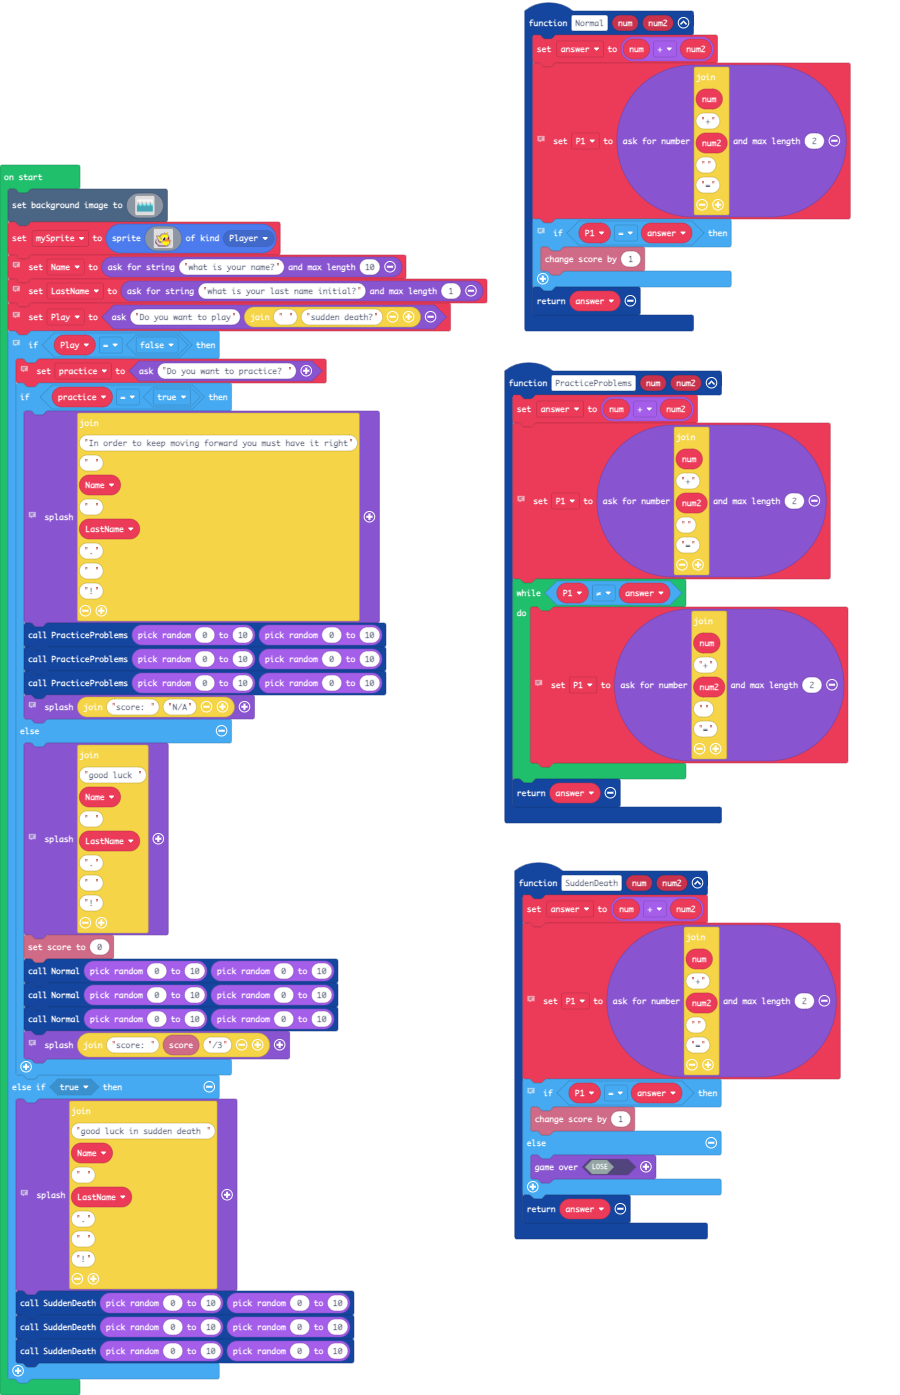
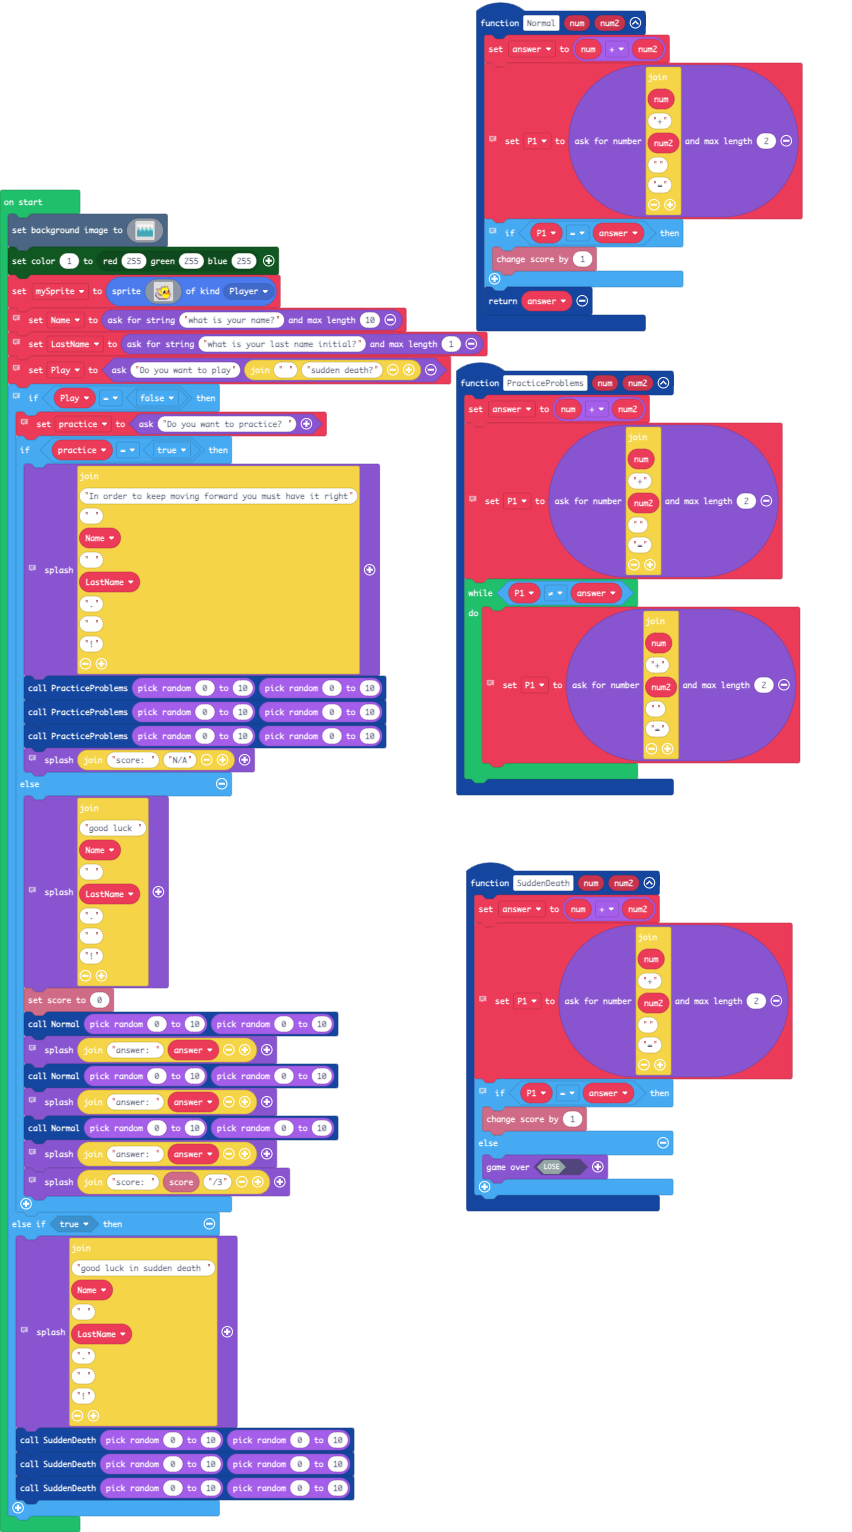
Update pxt.json, main.blocks, main.ts

diff --git a/main.ts b/main.ts
@@ -6,7 +6,6 @@ function PracticeProblems (num: number, num2: number) {
         // Problem 1 is 2+2
         P1 = game.askForNumber("" + num + "+" + num2 + "" + "=", 2)
     }
-    return answer
 }
 function Normal (num: number, num2: number) {
     answer = num + num2
@@ -28,7 +27,6 @@ function SuddenDeath (num: number, num2: number) {
     } else {
         game.over(false)
     }
-    return answer
 }
 let P1 = 0
 let answer = 0
@@ -155,6 +153,7 @@ scene.setBackgroundImage(img`
     6666666666666666666666666666666666666666666666666666666666666666666666666666666666666666666666666666666666666666666666666666666666666666666666666666666666666666
     6666666666666666666666666666666666666666666666666666666666666666666666666666666666666666666666666666666666666666666666666666666666666666666666666666666666666666
     `)
+color.setColor(1, color.rgb(255, 255, 255))
 let mySprite = sprites.create(img`
     . . . . . . . . . . . . . . . . 
     . . . . . . . . . . . . . . . . 
@@ -196,8 +195,14 @@ if (Play == false) {
         game.splash("good luck " + Name + " " + LastName + "." + " " + "!")
         info.setScore(0)
         Normal(randint(0, 10), randint(0, 10))
+        // when not playing sudden death, it displays the score with best out of three.
+        game.splash("answer: " + answer)
         Normal(randint(0, 10), randint(0, 10))
+        // when not playing sudden death, it displays the score with best out of three.
+        game.splash("answer: " + answer)
         Normal(randint(0, 10), randint(0, 10))
+        // when not playing sudden death, it displays the score with best out of three.
+        game.splash("answer: " + answer)
         // when not playing sudden death, it displays the score with best out of three.
         game.splash("score: " + info.score() + "/3")
     }
